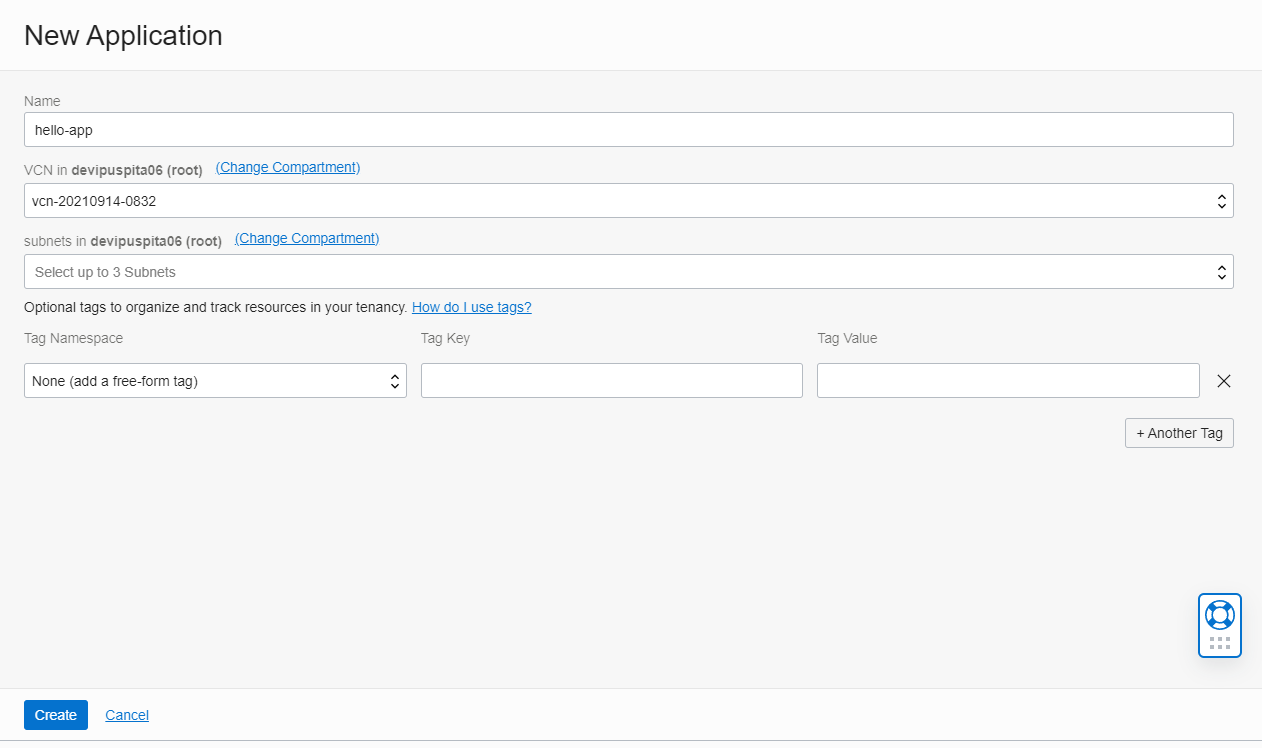
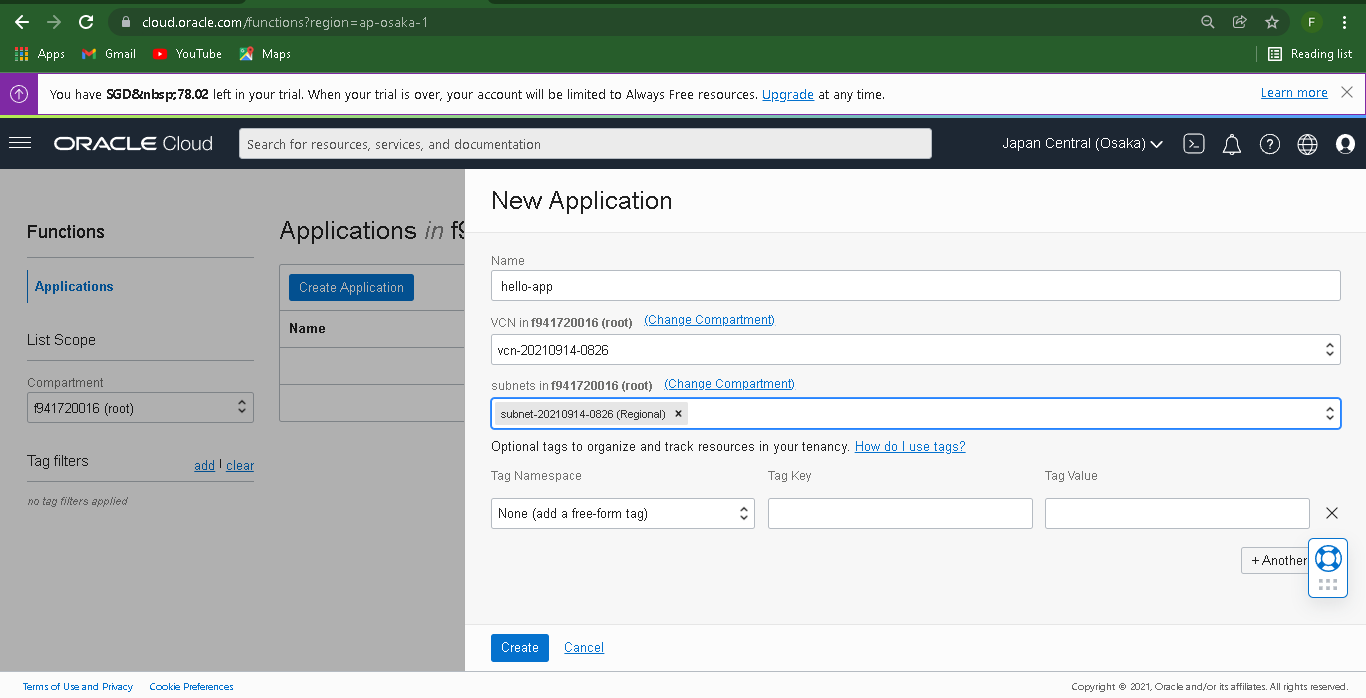
PUSH 14 SERVERLESS

diff --git a/docs/14_Serverless/14.md b/docs/14_Serverless/14.md
@@ -11,23 +11,82 @@ Pada praktikum yang pertama akan dilakukan pengenalan terkait Serverless (Faas).
 
 a.	Masuk ke akun https://cloud.oracle.com dan navigasi ke menu Developer Services -> Applications
 
+![Screenshot](img/1.PNG)
+
 b.	Tekan tombol Create Application dan lengkapi informasi form Name dengan hello-app. Lengkapi juga VCN dan subnet yang dibutuhkan. Jika anda belum mempunyai VCN, silahkan membuat terlebih dahulu VCN.
+
+![Screenshot](img/2.PNG)
+
+![Screenshot](img/2.1.PNG)
 
 c.	Tekan tombol create dan tunggu sampai muncul halaman Getting Started.
 
+![Screenshot](img/3.PNG)
+
 d.	Pada halaman Getting Started terdapat contoh langkah-langkah deploy menggunakan perintah fn. Terdapat dua pilihan deploy, melalui Cloud Shell Setup atau Local Setup.
+
+![Screenshot](img/4.PNG)
 
 e.	Aktifkan Cloud Shell dengan menekan tombol Launch Cloud Shell. Tunggu proses provisioning cloud shell selesai. Anda akan mendapatkan sebuah terminal built-in yang dapat digunakan untuk melakukan proses deployment.
 
+![Screenshot](img/5.PNG)
+
 f.	Ikuti langkah-langkah dengan melakukan copy perintah kemudian tempelkan ke dalam terminal Cloud Shell.
+
+![Screenshot](img/l2.PNG)
+
+![Screenshot](img/l3.PNG)
 
 g.	Perhatikan pada langkah ke 4, ubah nilai [repo-name-prefix] menggunakan username / repository name. Sebagai contoh: polinema
 
+![Screenshot](img/l4.PNG)
+
 h.	Pada langkah ke 5, dilakukan proses pembuatan token untuk autentikasi. Tekan tombol Generate Token dan lengkapi form Description dengan nama yang relevan (contoh: faas). Simpan token tersebut.
+
+![Screenshot](img/l5.PNG)
+
+![Screenshot](img/l5.1.PNG)
+
+![Screenshot](img/l5.1.1.PNG)
+
+![Screenshot](img/l5.2.PNG)
 
 i.	Token yang didapatkan, akan digunakan untuk autentikasi pada langkah ke 6. Tempel token yang didapatkan dan pastikan proses login telah berhasil.
 
+![Screenshot](img/l6.PNG)
+
 j.	Ikuti langkah-langkah sampai anda dapat menampilkan tampilan “Hello, world!”.
 
+![Screenshot](img/l7.PNG)
+
+![Screenshot](img/l8.PNG)
+
+![Screenshot](img/l9.PNG)
+
+![Screenshot](img/l10.PNG)
+
+![Screenshot](img/l11.PNG)
+
 k.	Navigasi menu ke Functions di sebelah kiri bawah. Anda akan mendapatkan detil fungsi yang tersedia. Pada halaman ini terdapat informasi mengenai Functions, serta invoke endpoint yang dapat digunakan untuk pemanggilan function.
+
+
+![Screenshot](img/l12.PNG)
+
+### 1.2.	Memanggil Function
+
+a.	Selain menggunakan fn, Function pada FaaS dapat juga dipanggil menggunakan oci-cli.
+
+b.	Salin invoke endpoint kemudian panggil dengan format perintah sebagai berikut.
+
+![Screenshot](img/l13.PNG)
+
+## TUGAS
+
+1.	Buatlah laporan dan dokumentasi dari praktikum yang Anda lakukan.
+
+2.	Pilih salah satu function dari repository oracle-functions-samples. Deploy dan dokumentasikan proses pengaturannya.
+
+
+
+
 
